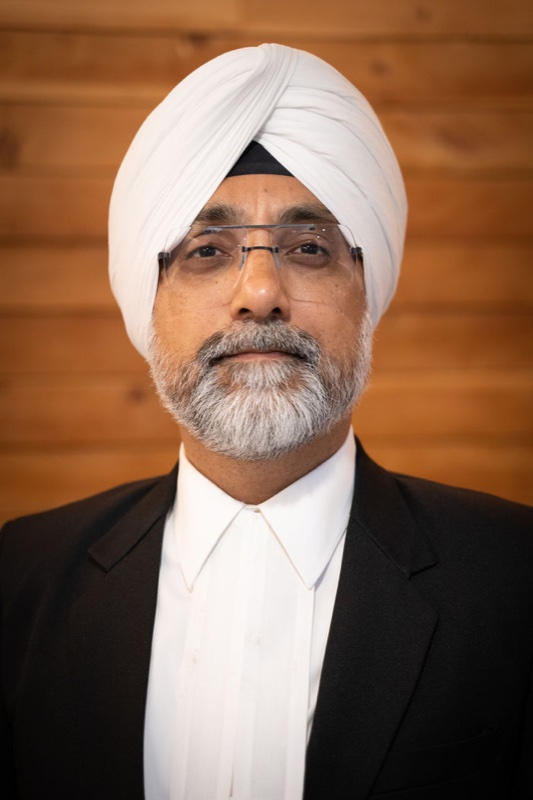
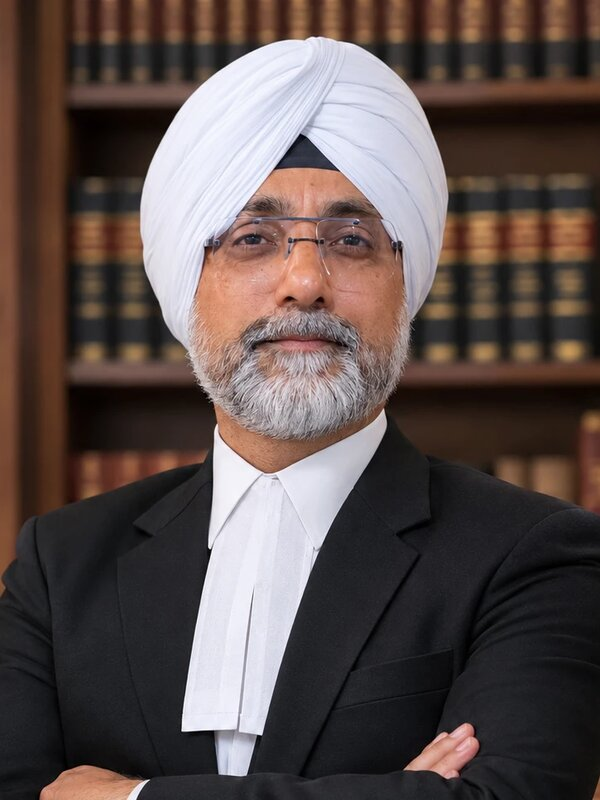
New Amarjit Singh Bedi portrait; match framing of all three partner photos

diff --git a/people/index.html b/people/index.html
@@ -40,21 +40,21 @@
       <div class="eyebrow" style="margin-bottom:32px;">Partners</div>
       <div class="people-grid" style="grid-template-columns: repeat(3, 1fr); column-gap: 48px; row-gap: 64px;">
         <article class="person p1">
-          <div class="portrait"><img src="../images/people/surekha-raman.jpg?v=2" alt="Surekha Raman"></div>
+          <div class="portrait"><img src="../images/people/surekha-raman.jpg?v=3" alt="Surekha Raman"></div>
           <div class="name">Surekha Raman</div>
           <div class="bar"></div>
           <div class="role">Managing Partner</div>
           <div class="detail">Leads the firm's day-to-day practice and senior client relationships. Heads the firm's institutional engagements.</div>
         </article>
         <article class="person p2">
-          <div class="portrait"><img src="../images/people/amarjit-singh-bedi.jpg" alt="Amarjit Singh Bedi"></div>
+          <div class="portrait"><img src="../images/people/amarjit-singh-bedi.jpg?v=2" alt="Amarjit Singh Bedi"></div>
           <div class="name">Amarjit Singh Bedi</div>
           <div class="bar"></div>
           <div class="role">Partner · Commercial Litigation</div>
           <div class="detail">Twenty-four years at the bar. Gold medallist in the Advocate on Record exam conducted by the Supreme Court of India. Alumnus, Symbiosis Law School, Pune.</div>
         </article>
         <article class="person p3">
-          <div class="portrait"><img src="../images/people/gaganpreet-sandhu.jpg" alt="Gaganpreet Sandhu"></div>
+          <div class="portrait"><img src="../images/people/gaganpreet-sandhu.jpg?v=2" alt="Gaganpreet Sandhu"></div>
           <div class="name">Gaganpreet Sandhu</div>
           <div class="bar"></div>
           <div class="role">Partner · Disputes &amp; Regulatory</div>

diff --git a/index.html b/index.html
@@ -145,21 +145,21 @@
 
       <div class="people-grid" style="grid-template-columns: repeat(3, 1fr); column-gap: 48px; row-gap: 64px;">
         <article class="person p1">
-          <div class="portrait"><img src="images/people/surekha-raman.jpg?v=2" alt="Surekha Raman"></div>
+          <div class="portrait"><img src="images/people/surekha-raman.jpg?v=3" alt="Surekha Raman"></div>
           <div class="name">Surekha Raman</div>
           <div class="bar"></div>
           <div class="role">Managing Partner</div>
           <div class="detail">Leads the firm's day-to-day practice and senior client relationships.</div>
         </article>
         <article class="person p2">
-          <div class="portrait"><img src="images/people/amarjit-singh-bedi.jpg" alt="Amarjit Singh Bedi"></div>
+          <div class="portrait"><img src="images/people/amarjit-singh-bedi.jpg?v=2" alt="Amarjit Singh Bedi"></div>
           <div class="name">Amarjit Singh Bedi</div>
           <div class="bar"></div>
           <div class="role">Partner · Commercial Litigation</div>
           <div class="detail">Twenty-four years at the bar. Gold medallist, Advocate on Record exam, Supreme Court of India.</div>
         </article>
         <article class="person p3">
-          <div class="portrait"><img src="images/people/gaganpreet-sandhu.jpg" alt="Gaganpreet Sandhu"></div>
+          <div class="portrait"><img src="images/people/gaganpreet-sandhu.jpg?v=2" alt="Gaganpreet Sandhu"></div>
           <div class="name">Gaganpreet Sandhu</div>
           <div class="bar"></div>
           <div class="role">Partner · Disputes &amp; Regulatory</div>
